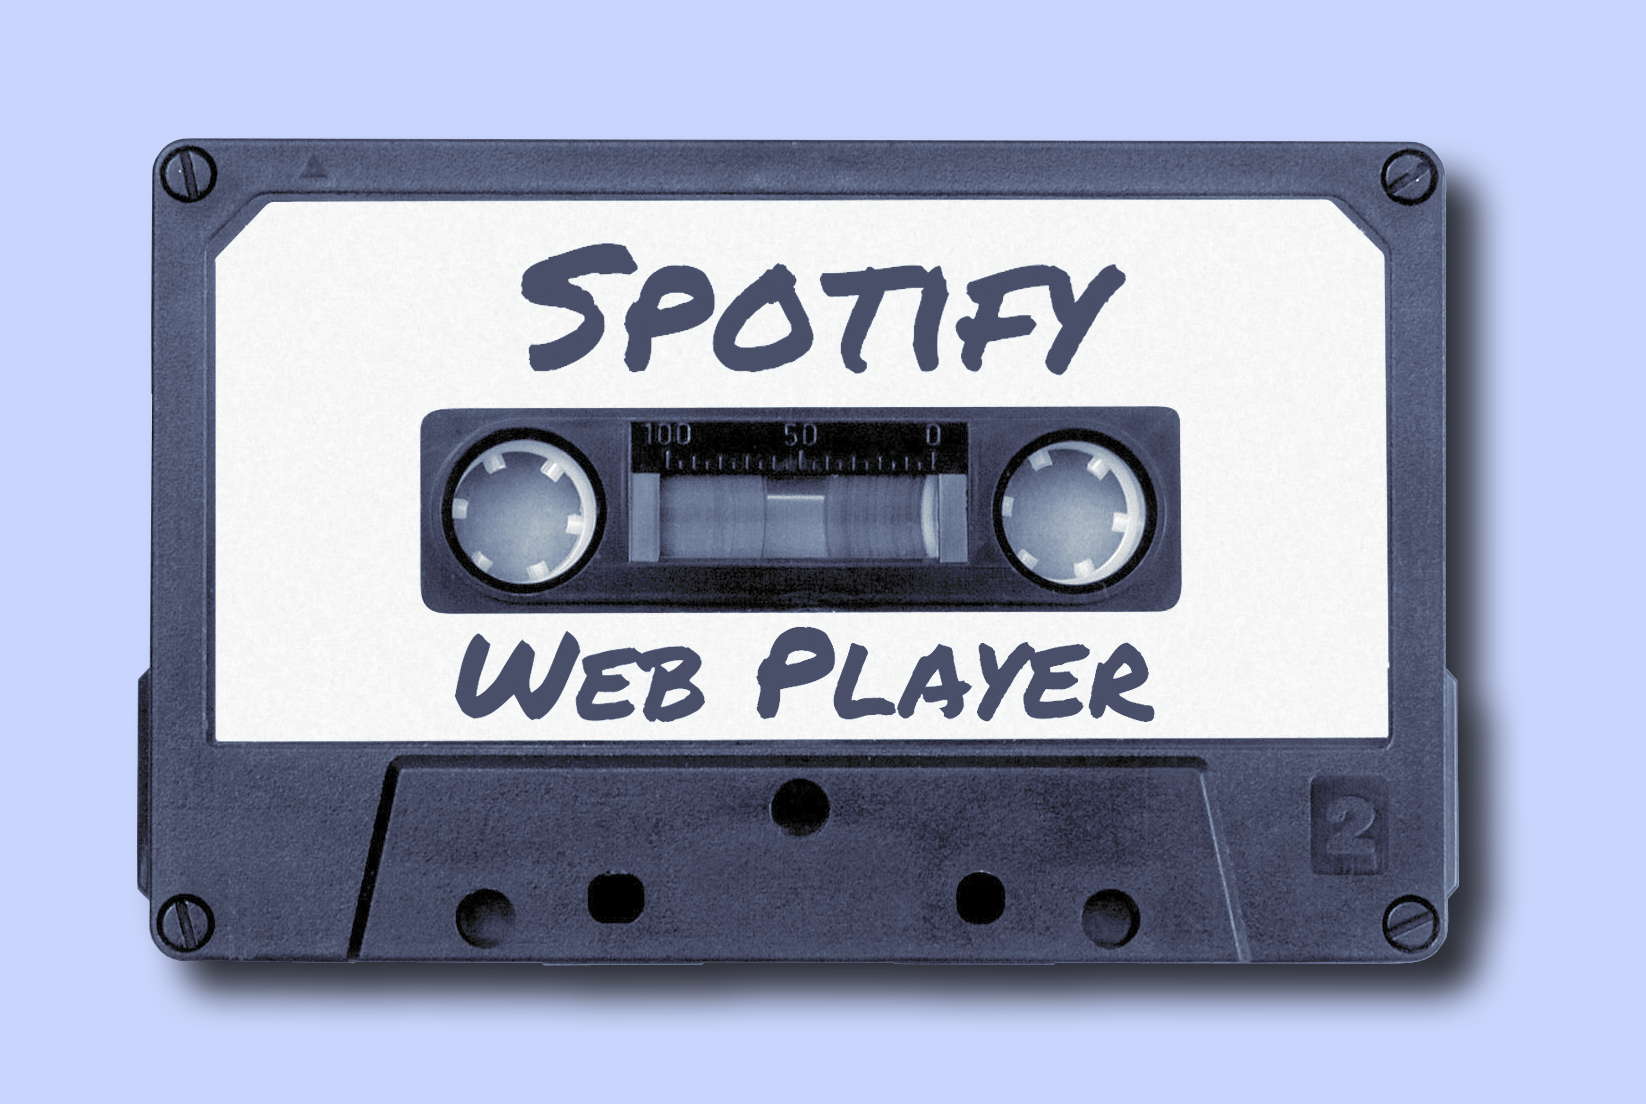
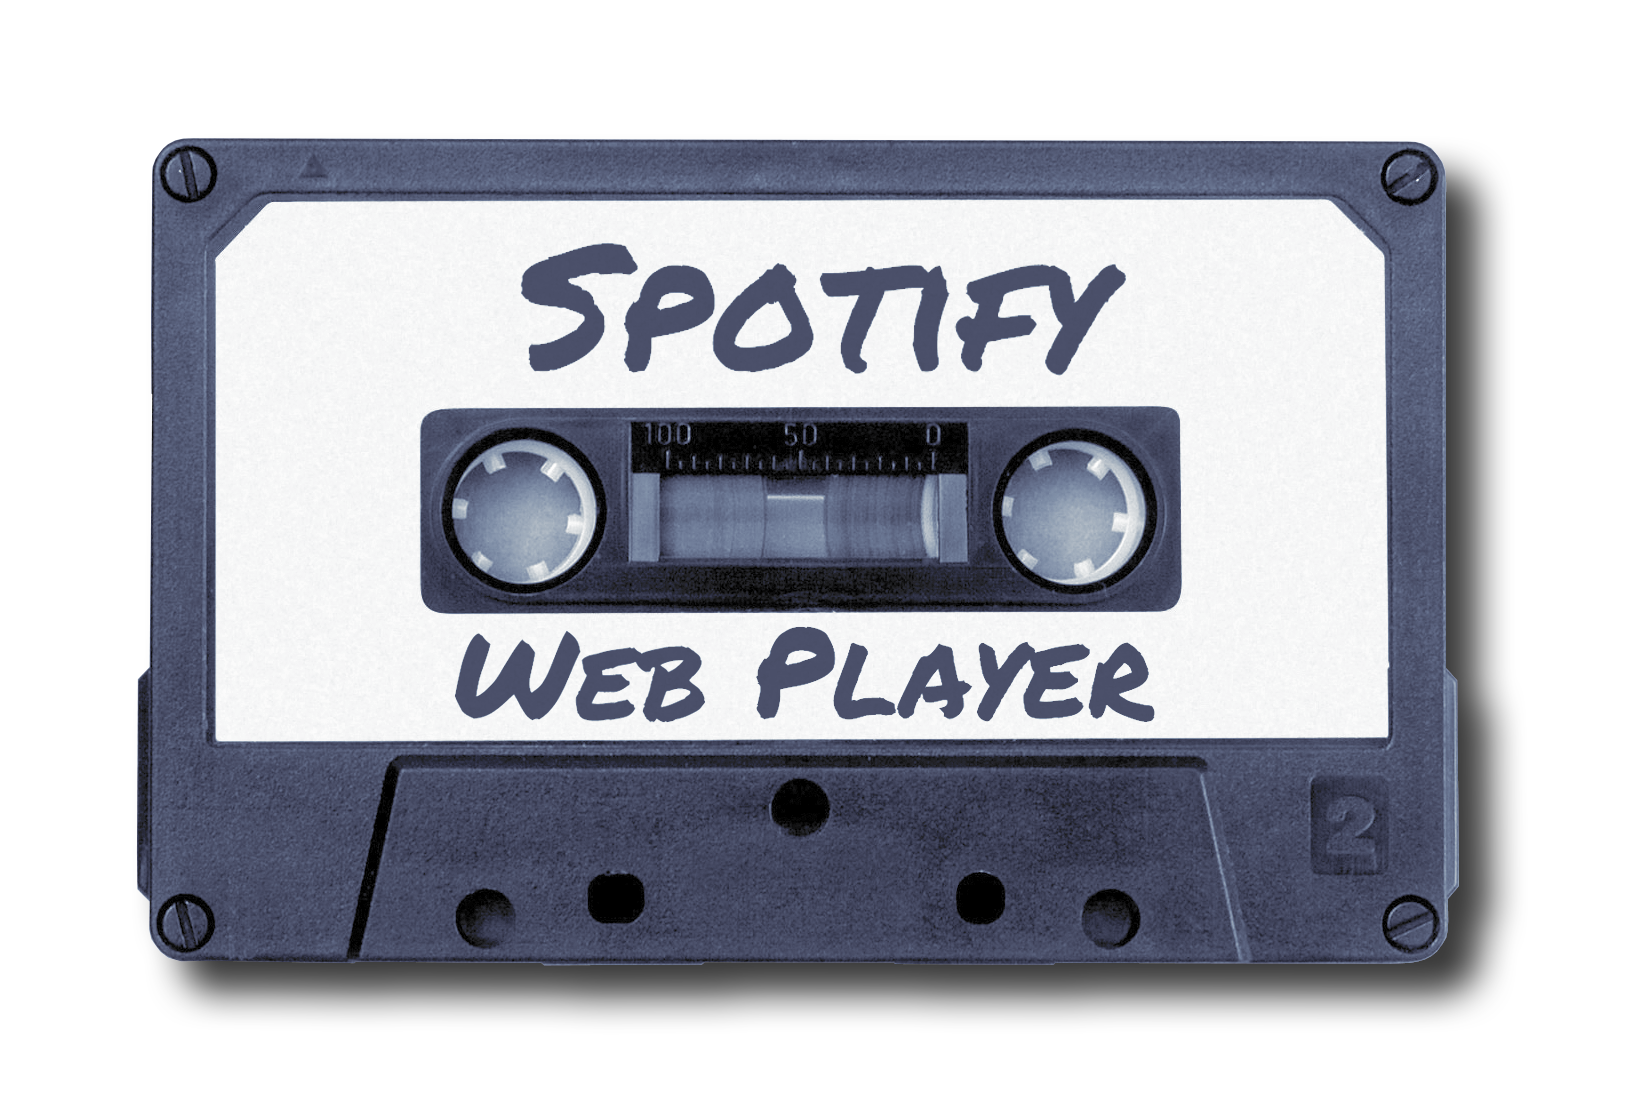
added media queries

diff --git a/src/App.css b/src/App.css
@@ -15,7 +15,12 @@
   height: 80px;
 }
 
-.App-intro {
+.login-info {
+  border: 5px solid red;
+  float: left;
+}
+
+.login-text {
   font-size: large;
   font-family: 'permanent_markerregular', Arial, sans-serif;
   font-weight: normal;
@@ -25,11 +30,23 @@
 
 .cassette {
   height: 300px;
+  transform: rotate(-15deg);
+  float: right;
+}
+
+.cassette-col {
+  border: 5px solid red;
+}
+
+.login-col {
+  border: 5px solid red;
+  text-align: center;
+  margin: auto;
 }
 
 .slidecontainer {
-    margin: auto;
-    width: 30%;
+  margin: auto;
+  width: 30%;
 }
 
 /* The slider itself */
@@ -66,3 +83,69 @@
     background: #4CAF50; /* Green background */
     cursor: pointer; /* Cursor on hover */
 }
+
+
+/* xs devices */
+@media (max-width:576px){
+  .cassette {
+    height: 100px;
+  }
+}
+
+/* small devices */
+@media (min-width: 577px) and (max-width:768px){
+  .cassette {
+    height: 200px;
+  }
+}
+
+/* medium devices */
+@media (min-width: 769px) and (max-width:992px){
+  .cassette {
+    height: 350px;
+  }
+}
+
+/* large devices */
+@media (min-width: 993px) and (max-width: 1200px){
+  .cassette {
+    height: 450px;
+  }
+}
+
+/* xl devices */
+@media (min-width: 1201px){
+  .cassette {
+    height: 550px;
+  }
+}
+
+
+/*
+// Small devices (landscape phones, 576px and up)
+@media (min-width: 576px) and (max-width: 767.98px) {
+  .cassette {
+    height: 200px;
+  }
+}
+
+// Medium devices (tablets, 768px and up)
+@media (min-width: 768px) and (max-width: 991.98px) {
+  .cassette {
+    height: 300px;
+  }
+}
+
+// Large devices (desktops, 992px and up)
+@media (min-width: 992px) and (max-width: 1199.98px) {
+  .cassette {
+    height: 400px;
+  }
+}
+
+// Extra large devices (large desktops, 1200px and up)
+@media (min-width: 1200px) {
+  .cassette {
+    height: 500px;
+  }
+}*/

diff --git a/src/App.js b/src/App.js
@@ -254,17 +254,25 @@ class App extends Component {
             </div>)
           :
           (<div>
-            <img src={cassette} className="cassette" />
-            <p className="App-intro">
-              Enter your Spotify access token. Get it from{" "}
-              <a href="https://developer.spotify.com/documentation/web-playback-sdk/quick-start/" target="_blank">
-              here
-              </a>.
-            </p>
-            <p>
-              <input type="text" value={token} onChange={e => this.setState({ token: e.target.value })} />
-              <button onClick={() => this.handleLogin()}>Go</button>
-            </p>
+            <div className="row">
+              <div className="col-6 cassette-col">
+                <img src={cassette} className="cassette" />
+              </div>
+              <div className="col-6 login-col">
+                <div className="login-info">
+                  <p className="login-text">
+                    Enter your Spotify access token. Get it from{" "}
+                    <a href="https://developer.spotify.com/documentation/web-playback-sdk/quick-start/" target="_blank">
+                    here
+                    </a>.
+                  </p>
+                  <p>
+                    <input type="text" value={token} onChange={e => this.setState({ token: e.target.value })} />
+                    <button onClick={() => this.handleLogin()}>Go</button>
+                  </p>
+                </div>
+              </div>
+            </div>
             {failedLogin ? (
                 <div>
                 <p>You have entered an invalid or expired access token. Please try again.</p>

diff --git a/public/index.html b/public/index.html
@@ -21,7 +21,7 @@
 
     <title>Spotify Web Player</title>
   </head>
-  <body style="background-color: #c9d5fc; background-size: cover;  background-position: center center;">
+  <body style="background: linear-gradient(#95aefe, #c9d5fc); height: 100%; margin: 0; background-repeat: no-repeat; background-attachment: fixed;">
     <noscript>
       You need to enable JavaScript to run this app.
     </noscript>
